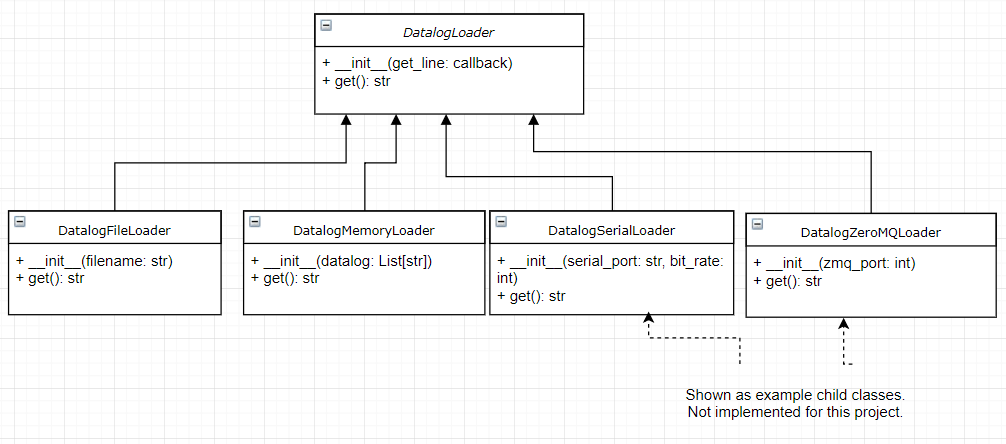
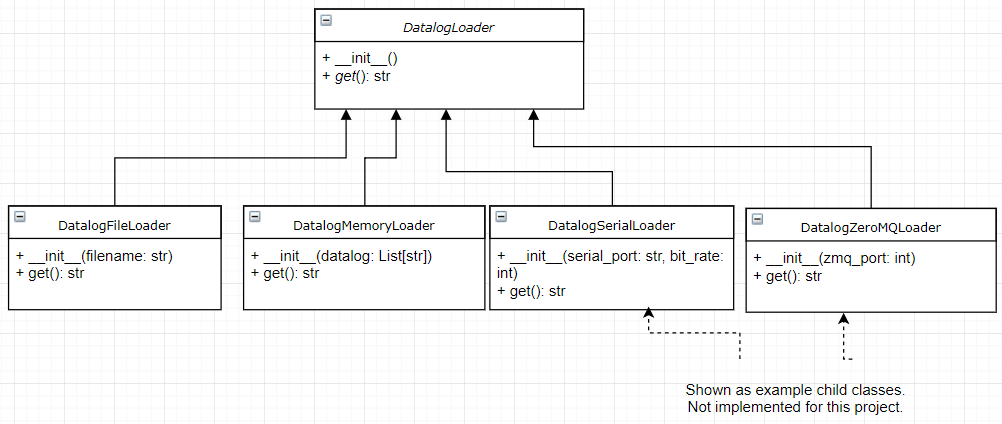
Described classes more

Changed region(s): [[0.0, 0.0, 1.0, 0.7972], [0.6806, 0.8585, 0.8972, 0.9811], [0.8353, 0.7972, 0.8663, 0.8278]]

diff --git a/README.md b/README.md
@@ -27,11 +27,34 @@ Timestamp T is an ISO 8601 formatted timestamp
 * Python 3.6+
 
 # Design
+
+## DatalogLoader
 An abstract class DatalogLoader provides a .get() method that will return one line of telemetry.  DatalogFileLoader will be implemented to solve the problem, and DatalogMemoryLoader will be used for testing.
+
+This architecture lets us handle telemetry streams that are possibly too big to fit in memory, or that are streaming, i.e. streamed one measurement at a time over a connection of some sort.
+
 ![DatalogLoader](doc/DataLogClasses.png)
 
+* get():
+Returns one line of telemetry as a string.  If this won't be possible, i.e. there are no more lines in an input file or a socket is closed, return None.
 
+## DataProcessor
+
+* run():
+Calls the callback that gets a line of telemetry and processes it in an output line, which is then sent to the write function callback.  Continues until get() has a problem.
 
 # Running
 
-# Testing
+```shell
+python Process_Powerline_File.py inputdata.dat outputfile.dat
+```
+
+# Test Plan
+
+The dataloader will be tested to 
+
+## PowerlineDataProcessor
+
+The PowerlineDataProcessor will use object mocking to make sure it calls an input function and an output function.
+
+Parsing will be tested with unittests
